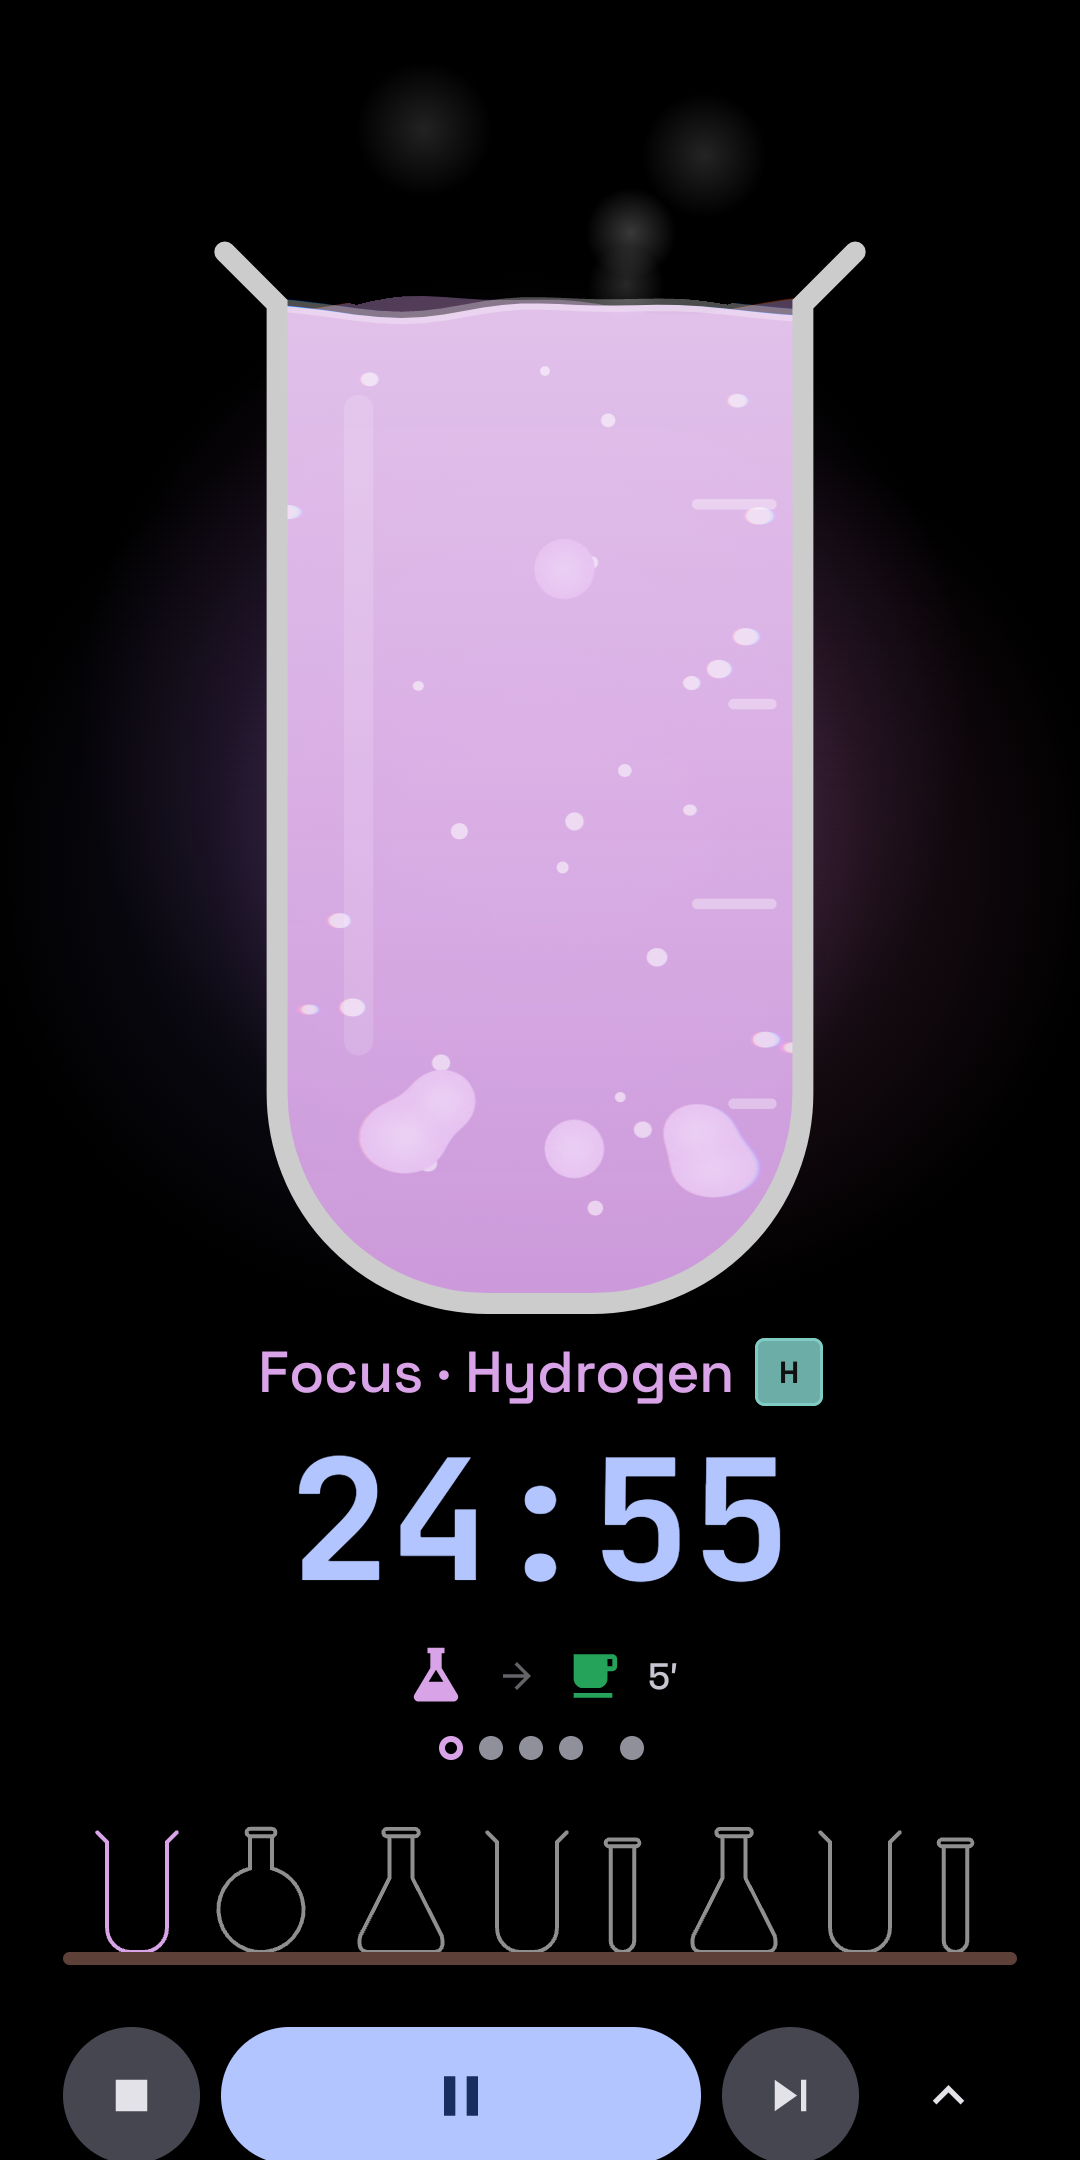
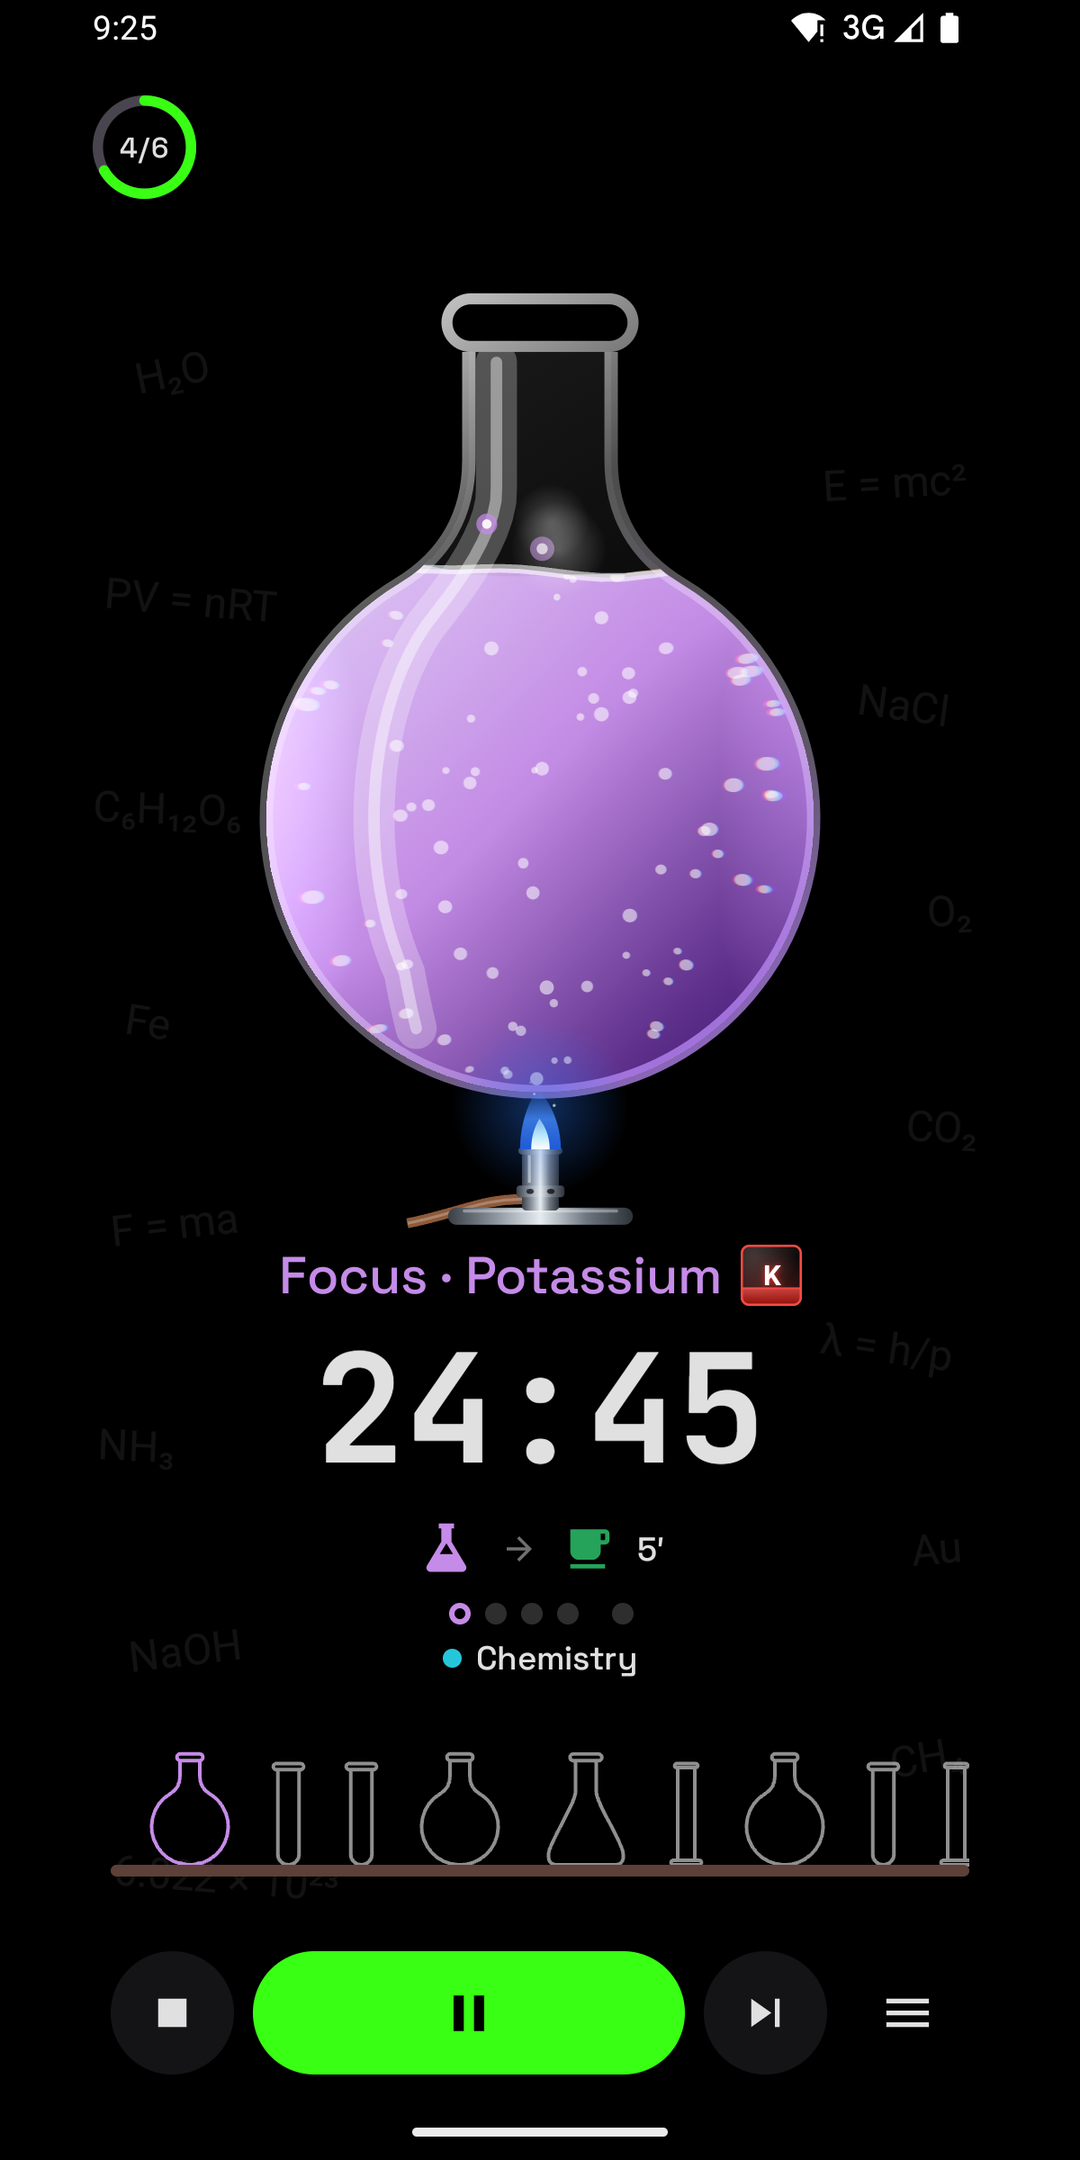
Capturas nuevas para Play, burbujas que se oyen y recipiente con colores del sistema
- 8 capturas por idioma (1080x2160) con los diseños nuevos: temporizador, plan, tabla,
  ficha, sintetizador, estadísticas, tu año y medallas.
- El sonido de descanso corto (Pro) era tan grave que en la bocina del teléfono casi no se
  oía: burbujas más agudas y más fuertes; se regeneran en la caché.
- El recipiente en reposo toma el color principal si se usan los colores del sistema (Pro).
- "Hoy" sigue la zona horaria actual aunque cambie con la app abierta.
- "Iniciar" en español, fórmulas del pizarrón lejos del anillo de la meta y cada descripción
  de Apariencia bajo su interruptor.

diff --git a/android/app/src/main/java/com/jjas/labpomodoro/service/LabSoundSynth.kt b/android/app/src/main/java/com/jjas/labpomodoro/service/LabSoundSynth.kt
@@ -20,11 +20,15 @@ object LabSoundSynth {
         glass(t, 0f) + glass(t, 0.22f) * 0.8f
     }
 
-    /** Burbujeo: cinco burbujas que suben de tono, como un matraz al hervir suave. Descanso corto. */
+    /**
+     * Burbujeo: cinco burbujas que suben de tono, como un matraz al hervir suave. Descanso corto.
+     * Agudas (de 900 Hz para arriba): las bocinas del teléfono casi no dan los graves y con tonos
+     * más bajos el descanso empezaba sin que se oyera.
+     */
     fun bubbles(): ShortArray = render(1.3f) { t ->
         (0 until 5).sumOf { i ->
             val start = i * 0.22f + (i % 2) * 0.05f
-            bubble(t - start, 320f + i * 70f).toDouble()
+            bubble(t - start, 900f + i * 160f).toDouble()
         }.toFloat()
     }
 
@@ -60,9 +64,9 @@ object LabSoundSynth {
 
     /** Una burbuja: tono que sube rápido y se apaga, como al reventar en la superficie. */
     private fun bubble(local: Float, base: Float): Float {
-        if (local < 0f || local > 0.18f) return 0f
-        val freq = base * (1f + local * 9f)
-        return (sin(2 * PI * freq * local) * exp(-local * 22.0)).toFloat() * attack(local) * 0.6f
+        if (local < 0f || local > 0.2f) return 0f
+        val freq = base * (1f + local * 6f)
+        return (sin(2 * PI * freq * local) * exp(-local * 14.0)).toFloat() * attack(local)
     }
 
     /** Entrada suave de 3 ms para que no truene. */

diff --git a/android/app/src/main/java/com/jjas/labpomodoro/core/di/DataModule.kt b/android/app/src/main/java/com/jjas/labpomodoro/core/di/DataModule.kt
@@ -20,6 +20,8 @@ import dagger.hilt.InstallIn
 import dagger.hilt.android.qualifiers.ApplicationContext
 import dagger.hilt.components.SingletonComponent
 import java.time.Clock
+import java.time.Instant
+import java.time.ZoneId
 import javax.inject.Singleton
 
 @Module
@@ -56,7 +58,17 @@ object DataModule {
     fun providePreferencesDataStore(@ApplicationContext context: Context): DataStore<Preferences> =
         PreferenceDataStoreFactory.create { context.preferencesDataStoreFile("settings") }
 
-    /** Reloj inyectable: en los tests se reemplaza por uno fijo. */
+    /**
+     * Reloj inyectable: en los tests se reemplaza por uno fijo. Lee la zona horaria en cada uso
+     * (Clock.systemDefaultZone la fija al crearse): si el usuario viaja o cambia la zona con la app
+     * abierta, "hoy" sigue siendo su día.
+     */
     @Provides
-    fun provideClock(): Clock = Clock.systemDefaultZone()
+    fun provideClock(): Clock = SystemZoneClock
+}
+
+private object SystemZoneClock : Clock() {
+    override fun getZone(): ZoneId = ZoneId.systemDefault()
+    override fun withZone(zone: ZoneId): Clock = system(zone)
+    override fun instant(): Instant = Instant.now()
 }

diff --git a/android/app/src/main/java/com/jjas/labpomodoro/ui/settings/SettingsScreen.kt b/android/app/src/main/java/com/jjas/labpomodoro/ui/settings/SettingsScreen.kt
@@ -454,15 +454,17 @@ private fun SettingsContent(
         // Material You existe desde Android 12
         val dynamicAvailable = Build.VERSION.SDK_INT >= Build.VERSION_CODES.S
         SectionTitle(stringResource(R.string.set_section_appearance))
+        // Cada descripción debajo de su interruptor
         SwitchRow(stringResource(R.string.set_pure_black), settings.pureBlack, onPureBlackChange)
-        SwitchRow(stringResource(R.string.set_seasonal), settings.seasonalThemes, onSeasonalChange)
         Text(
-            stringResource(R.string.set_seasonal_desc),
+            stringResource(R.string.set_pure_black_desc),
             style = MaterialTheme.typography.bodySmall,
             color = MaterialTheme.colorScheme.onSurfaceVariant,
         )
+        Spacer(Modifier.height(12.dp))
+        SwitchRow(stringResource(R.string.set_seasonal), settings.seasonalThemes, onSeasonalChange)
         Text(
-            stringResource(R.string.set_pure_black_desc),
+            stringResource(R.string.set_seasonal_desc),
             style = MaterialTheme.typography.bodySmall,
             color = MaterialTheme.colorScheme.onSurfaceVariant,
         )

diff --git a/android/app/src/main/java/com/jjas/labpomodoro/ui/components/LabThemeUi.kt b/android/app/src/main/java/com/jjas/labpomodoro/ui/components/LabThemeUi.kt
@@ -6,15 +6,19 @@ import com.jjas.labpomodoro.domain.model.FlameColor
 import com.jjas.labpomodoro.domain.model.GlassTint
 import com.jjas.labpomodoro.domain.model.LabBackground
 
-/** Tema de laboratorio activo: tinte del cristal (null = transparente), colores de la llama y fondo. */
+/**
+ * Tema de laboratorio activo: tinte del cristal (null = transparente), colores de la llama, fondo
+ * y si se usan los colores del sistema (Material You, Pro).
+ */
 data class LabThemeUi(
     val glassTint: Color? = null,
     val flame: FlameTones = FlameTones.Blue,
     val background: LabBackground = LabBackground.NONE,
+    val dynamicColor: Boolean = false,
 ) {
     companion object {
-        fun of(tint: GlassTint, flame: FlameColor, background: LabBackground) =
-            LabThemeUi(tint.argb?.let(::Color), FlameTones.of(flame), background)
+        fun of(tint: GlassTint, flame: FlameColor, background: LabBackground, dynamicColor: Boolean) =
+            LabThemeUi(tint.argb?.let(::Color), FlameTones.of(flame), background, dynamicColor)
     }
 }
 

diff --git a/android/app/src/main/java/com/jjas/labpomodoro/ui/pip/PipScreen.kt b/android/app/src/main/java/com/jjas/labpomodoro/ui/pip/PipScreen.kt
@@ -24,7 +24,7 @@ import com.jjas.labpomodoro.service.formatMinutesSeconds
 import com.jjas.labpomodoro.ui.main.TimerUi
 import com.jjas.labpomodoro.ui.main.TimerViewModel
 import com.jjas.labpomodoro.ui.main.Vessel
-import com.jjas.labpomodoro.ui.main.VesselUi
+import com.jjas.labpomodoro.ui.main.restingVessel
 import com.jjas.labpomodoro.ui.theme.JetBrainsMono
 
 /** Ventana flotante (PiP): solo el recipiente y el tiempo, reutilizando el mismo VesselView. */
@@ -40,7 +40,7 @@ fun PipScreen(viewModel: TimerViewModel = hiltViewModel()) {
             verticalArrangement = Arrangement.Center,
         ) {
             Vessel(
-                vessel = (timer as? TimerUi.Active)?.vessel ?: VesselUi.Resting,
+                vessel = (timer as? TimerUi.Active)?.vessel ?: restingVessel(),
                 modifier = Modifier
                     .weight(1f)
                     .fillMaxWidth(),

diff --git a/android/app/src/main/java/com/jjas/labpomodoro/ui/main/MainScreen.kt b/android/app/src/main/java/com/jjas/labpomodoro/ui/main/MainScreen.kt
@@ -532,7 +532,7 @@ private fun MainContent(
                     )
                 }
                 Vessel(
-                    vessel = (timer as? TimerUi.Active)?.vessel ?: VesselUi.Resting,
+                    vessel = (timer as? TimerUi.Active)?.vessel ?: restingVessel(),
                     modifier = Modifier
                         .weight(1f)
                         .fillMaxWidth()
@@ -1431,3 +1431,12 @@ private fun NoteCard(onSave: (String) -> Unit, onSkip: () -> Unit) {
         }
     }
 }
+
+/** Recipiente en reposo: verde neón, o el color principal del sistema si se usa Material You (Pro). */
+@Composable
+internal fun restingVessel(): VesselUi =
+    if (LocalLabTheme.current.dynamicColor) {
+        VesselUi.Resting.copy(liquid = MaterialTheme.colorScheme.primary.copy(alpha = 0.8f))
+    } else {
+        VesselUi.Resting
+    }

diff --git a/android/app/src/main/java/com/jjas/labpomodoro/MainActivity.kt b/android/app/src/main/java/com/jjas/labpomodoro/MainActivity.kt
@@ -139,7 +139,7 @@ class MainActivity : ComponentActivity() {
         setContent {
             val settings by settingsRepository.settings.collectAsStateWithLifecycle(initialValue = null)
             val pureBlack = settings?.pureBlack ?: true
-            val labTheme = settings?.let { LabThemeUi.of(it.activeGlassTint, it.activeFlame, it.activeBackground) } ?: LabThemeUi()
+            val labTheme = settings?.let { LabThemeUi.of(it.activeGlassTint, it.activeFlame, it.activeBackground, it.dynamicColorActive) } ?: LabThemeUi()
             CompositionLocalProvider(LocalLabTheme provides labTheme) {
             LabPomodoroTheme(dynamicColor = settings?.dynamicColorActive == true, pureBlack = pureBlack) {
                 // Fuera del if para conservar la pantalla en la que estaba al volver de PiP

diff --git a/android/app/src/main/java/com/jjas/labpomodoro/ui/components/LabBackdrop.kt b/android/app/src/main/java/com/jjas/labpomodoro/ui/components/LabBackdrop.kt
@@ -76,7 +76,8 @@ fun LabBackdrop(background: LabBackground, modifier: Modifier = Modifier) {
             LabBackground.FORMULAS -> formulas.forEachIndexed { i, f ->
                 val margin = size.width * 0.04f
                 val x = if (f.left) margin + f.jitter * margin else size.width - f.layout.size.width - margin - f.jitter * margin
-                val y = (i + 0.5f) / formulas.size * size.height * 0.9f
+                // Desde el 12 % de alto: arriba a la izquierda está el anillo de la meta
+                val y = size.height * (0.12f + 0.78f * (i + 0.5f) / formulas.size)
                 rotate(f.angle, Offset(x, y)) { drawText(f.layout, topLeft = Offset(x, y)) }
             }
         }

diff --git a/android/app/src/main/java/com/jjas/labpomodoro/service/TimerEffects.kt b/android/app/src/main/java/com/jjas/labpomodoro/service/TimerEffects.kt
@@ -128,4 +128,4 @@ class TimerEffects @Inject constructor(
 }
 
 /** Súbelo si cambian los sonidos sintetizados: los de la caché se vuelven a generar. */
-private const val LAB_SOUNDS_VERSION = 1
+private const val LAB_SOUNDS_VERSION = 2

diff --git a/play/README.md b/play/README.md
@@ -4,7 +4,7 @@ Todo lo que hace falta para la ficha está en esta carpeta. Los pasos que siguen
 
 | Archivo | Para qué |
 |---|---|
-| `listing/es-419/`, `listing/en-US/` | Título, descripción corta y completa, imagen destacada (1024×500) y 5 capturas (1080×2160) por idioma |
+| `listing/es-419/`, `listing/en-US/` | Título, descripción corta y completa, imagen destacada (1024×500) y 8 capturas (1080×2160) por idioma: temporizador, plan, tabla, ficha, sintetizador, estadísticas, tu año y medallas |
 | `icon-512.png` | Ícono de la ficha |
 | `../privacy/index.html` | Política de privacidad (se publica con GitHub Pages) |
 | `../privacy/delete-account.html` | Página para pedir que se borre la cuenta |
